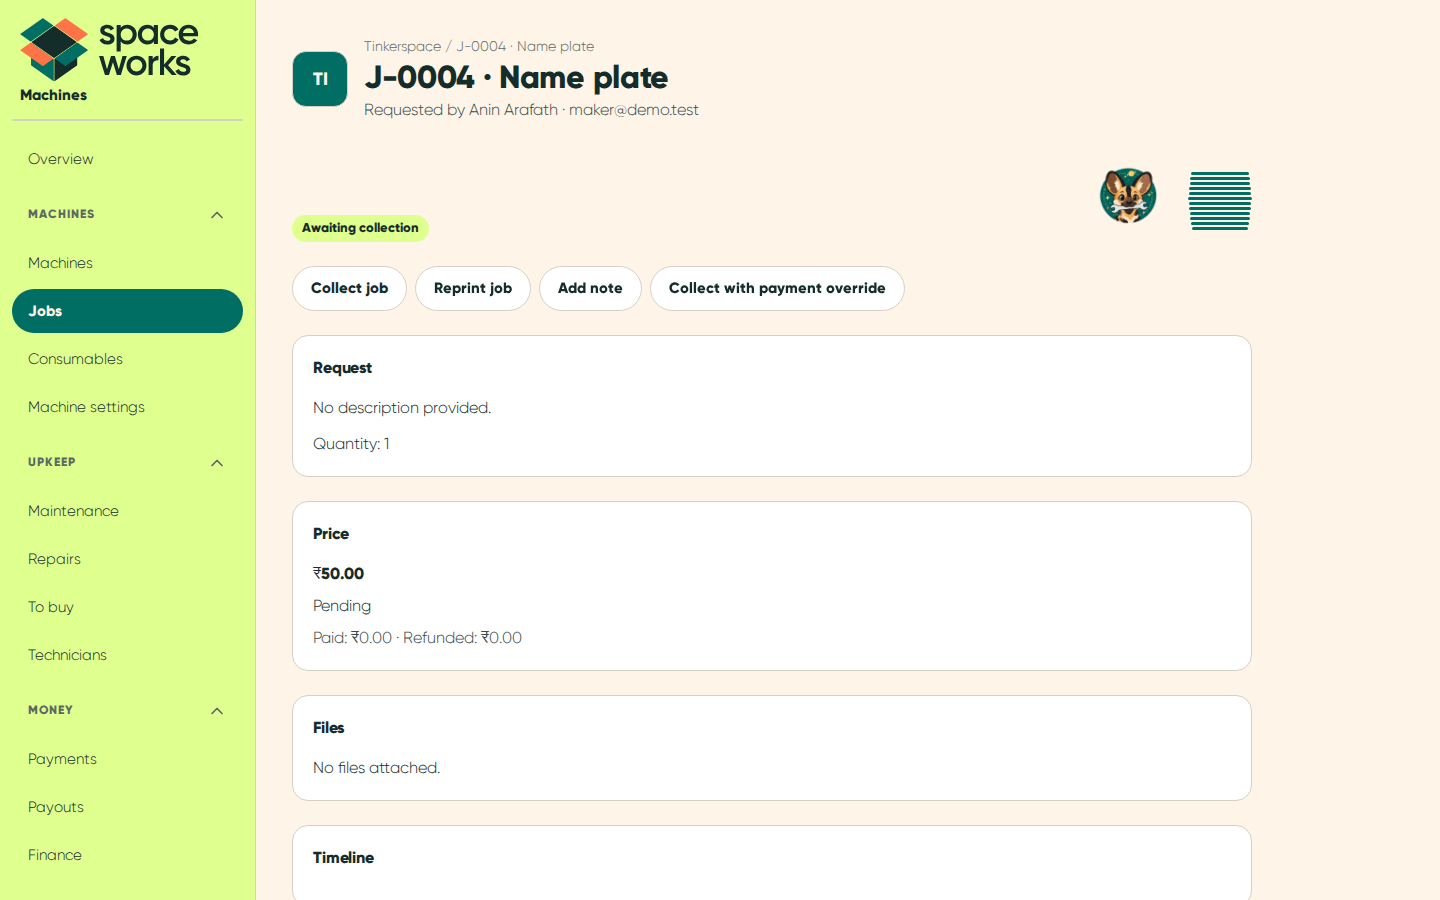
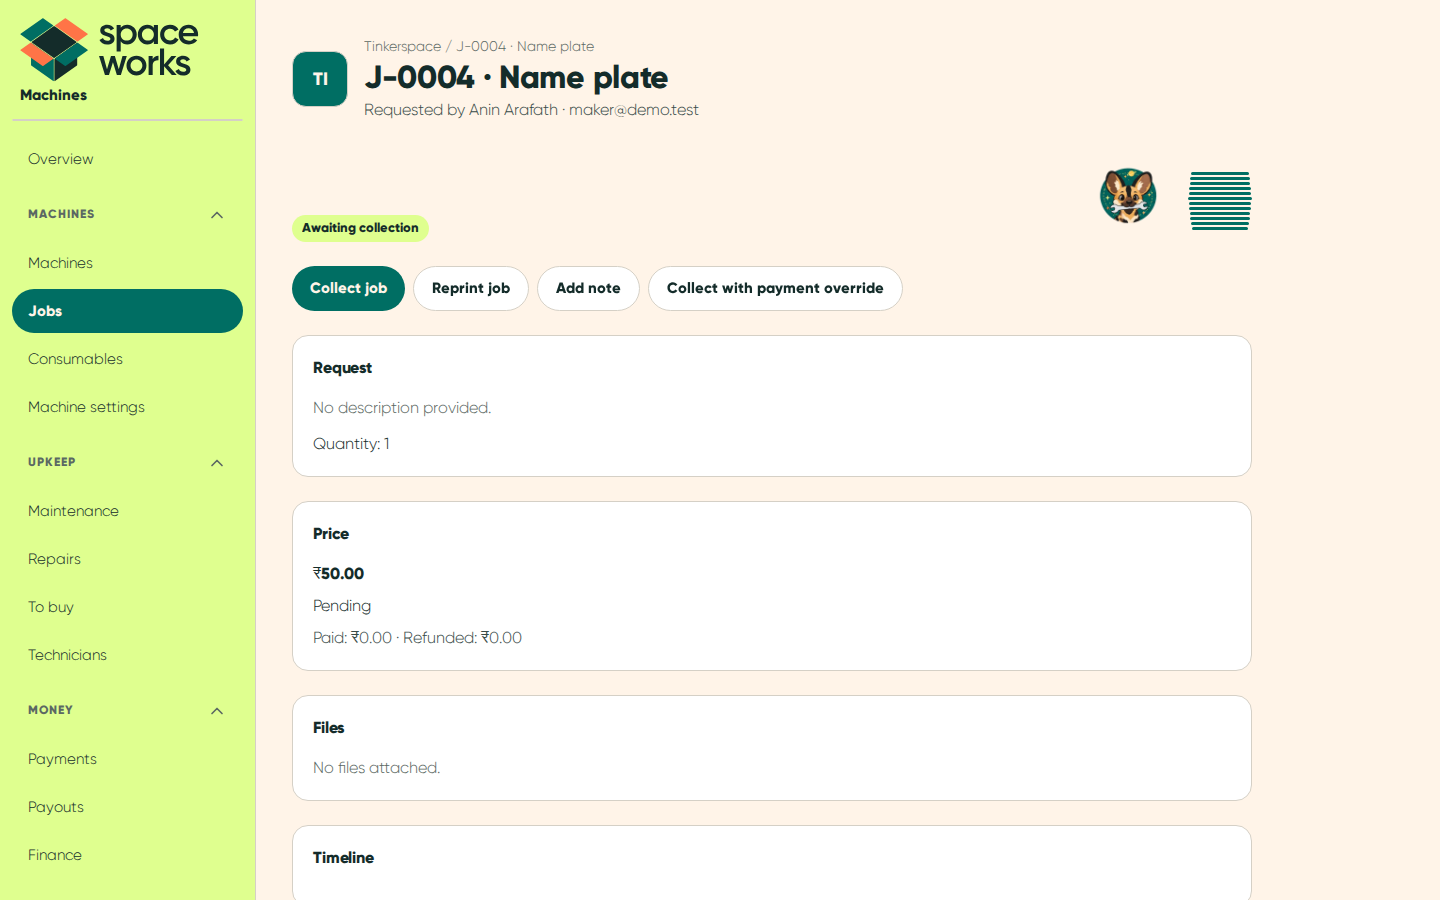
docs: recapture README screenshots in light and dark after the UX polish, changelog entry

Changed region(s): [[0.1875, 0.28, 0.625, 0.3733], [0.2188, 0.4356, 0.3438, 0.4667], [0.2188, 0.84, 0.2812, 0.8711]]

diff --git a/CHANGELOG.md b/CHANGELOG.md
@@ -29,6 +29,21 @@ below were never released on their own), plus repairs, technicians, the to-buy l
   overview, maintenance, repairs, upkeep, fault, report and finance sections collapse from their header (with a
   count). Empty sections start collapsed and each choice is remembered in the browser. The colour-mode reveal from
   the account menu now waits for the menu to close, so no ghost of it lingers in the animation.
+- **Polish.** A page-by-page pass on every screen:
+  - **Layout and targets.** Every page fits a 390px phone with no sideways scroll. Every control has a 44px target,
+    including small icon buttons, segmented options, footer and contents links.
+  - **Tables and lists.** Ledgers, logs and other long tables keep their header pinned. Long names are cut with
+    the full text on hover, and money is right-aligned.
+  - **Actions and confirmations.** Each page has one primary action, and dialog submits stand out from Cancel.
+    Destructive steps confirm with the danger button; removing a maker and deleting a pricing rule now ask first.
+    Disabled controls say why.
+  - **Folding.** Closed jobs, service history, machine photos and documents, the role reference, low-stock alerts
+    and printer connection types fold. The job board drops its duplicate "Awaiting collection" list.
+  - **Empty states and copy.** Lists have proper empty states. Out-of-date and exclamation-mark copy is gone,
+    words standing in for icons are replaced, and README screenshots are recaptured in light and dark.
+  - **Colour-mode reveal.** Element transitions now switch off only after the old mode is captured, so the
+    production build no longer reveals over a blank page. Choosing a mode from the account menu with the mouse no
+    longer flashes a focus ring.
 - **Roles.** No owner or space manager role any more: the machine manager is the top role (settings, money,
   the team including other machine managers, deleting the space), and a space always keeps one active machine
   manager. New machine type managers get full access and settings for the machine types a machine manager

diff --git a/README.md b/README.md
@@ -126,7 +126,7 @@ Screens from the seeded demo, in light mode. Every page has a dark mode too; the
 <table>
   <tr>
     <td width="50%"><img src="docs/screenshots/public-machines.png" alt="Public machine catalogue grouped by type, with a status word on every machine" /><br /><sub>Public machine catalogue</sub></td>
-    <td width="50%"><img src="docs/screenshots/jobs.png" alt="Staff job board with columns for submitted, approved, running, paused, awaiting collection and collected jobs" /><br /><sub>Job board</sub></td>
+    <td width="50%"><img src="docs/screenshots/jobs.png" alt="Staff job board with open jobs by stage (submitted, approved, running, paused, awaiting collection) and closed jobs folded below" /><br /><sub>Job board</sub></td>
   </tr>
   <tr>
     <td><img src="docs/screenshots/machines.png" alt="Staff machine list grouped by type with status counts" /><br /><sub>Machines</sub></td>
